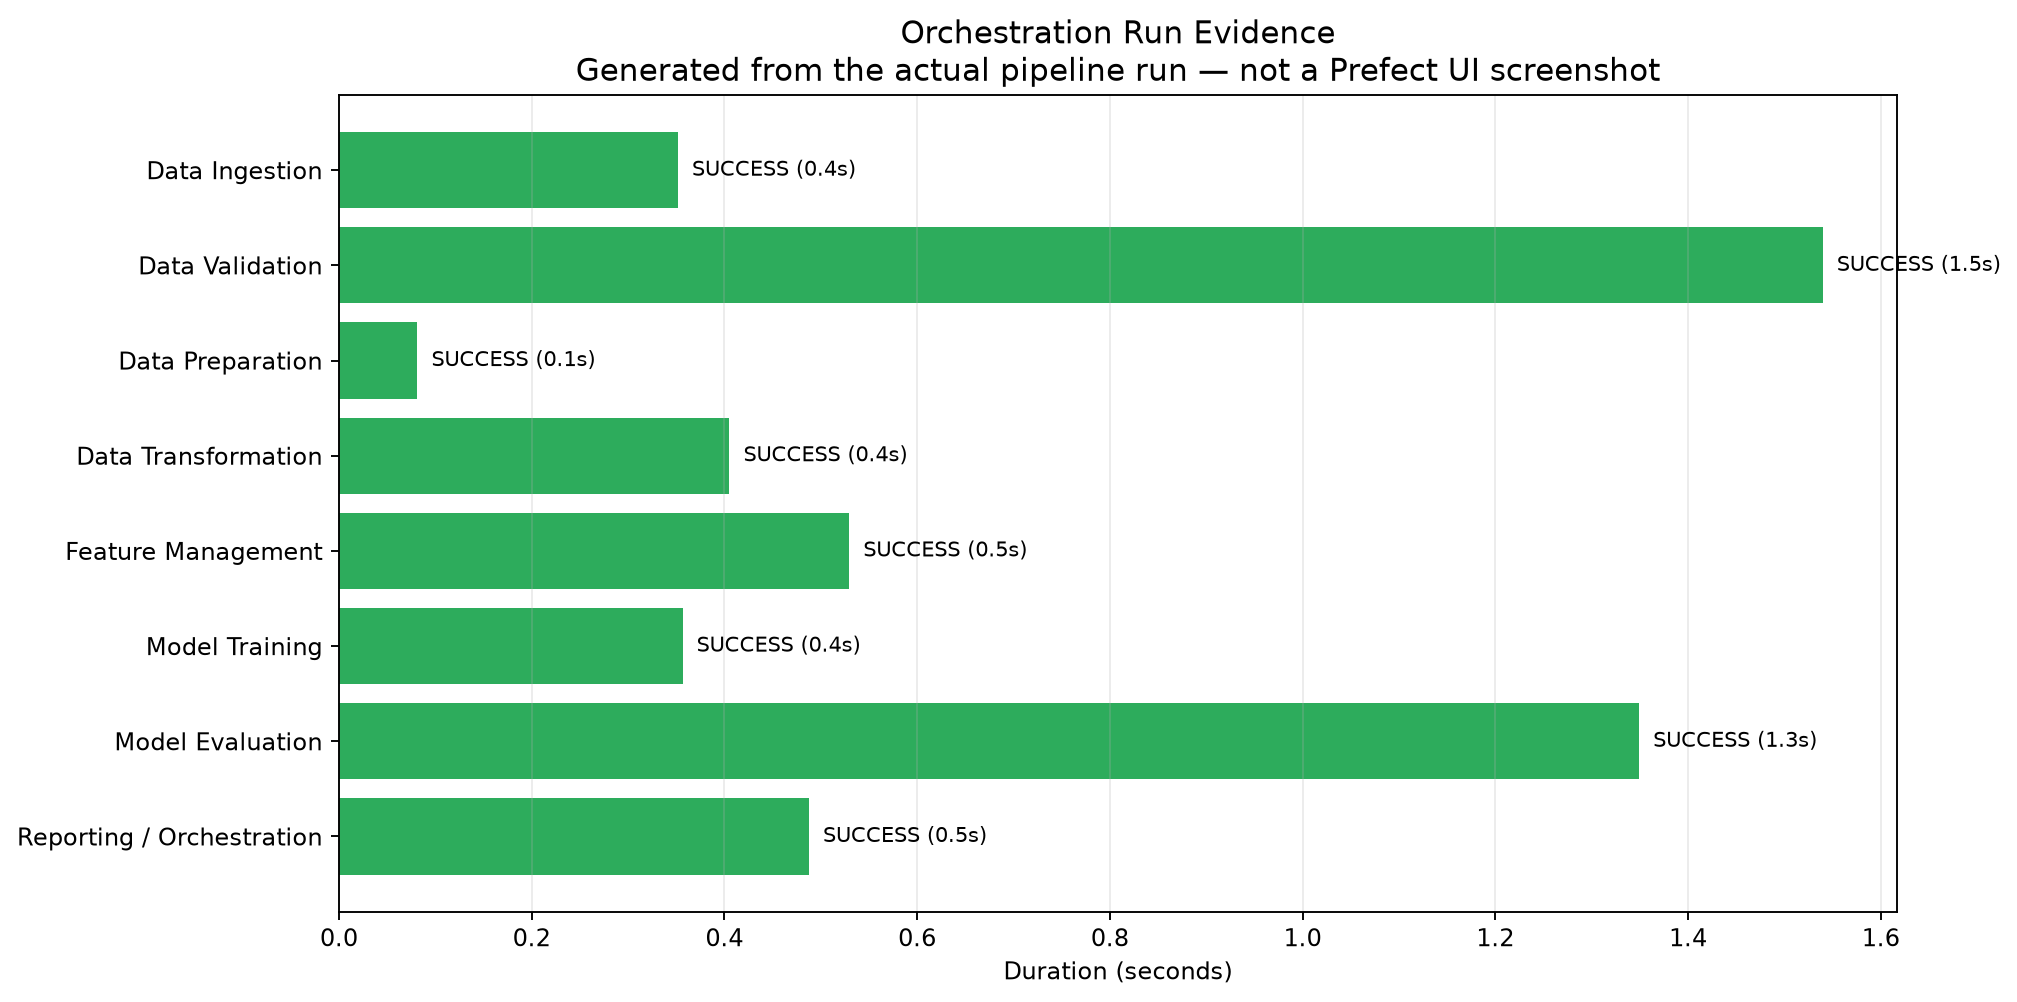
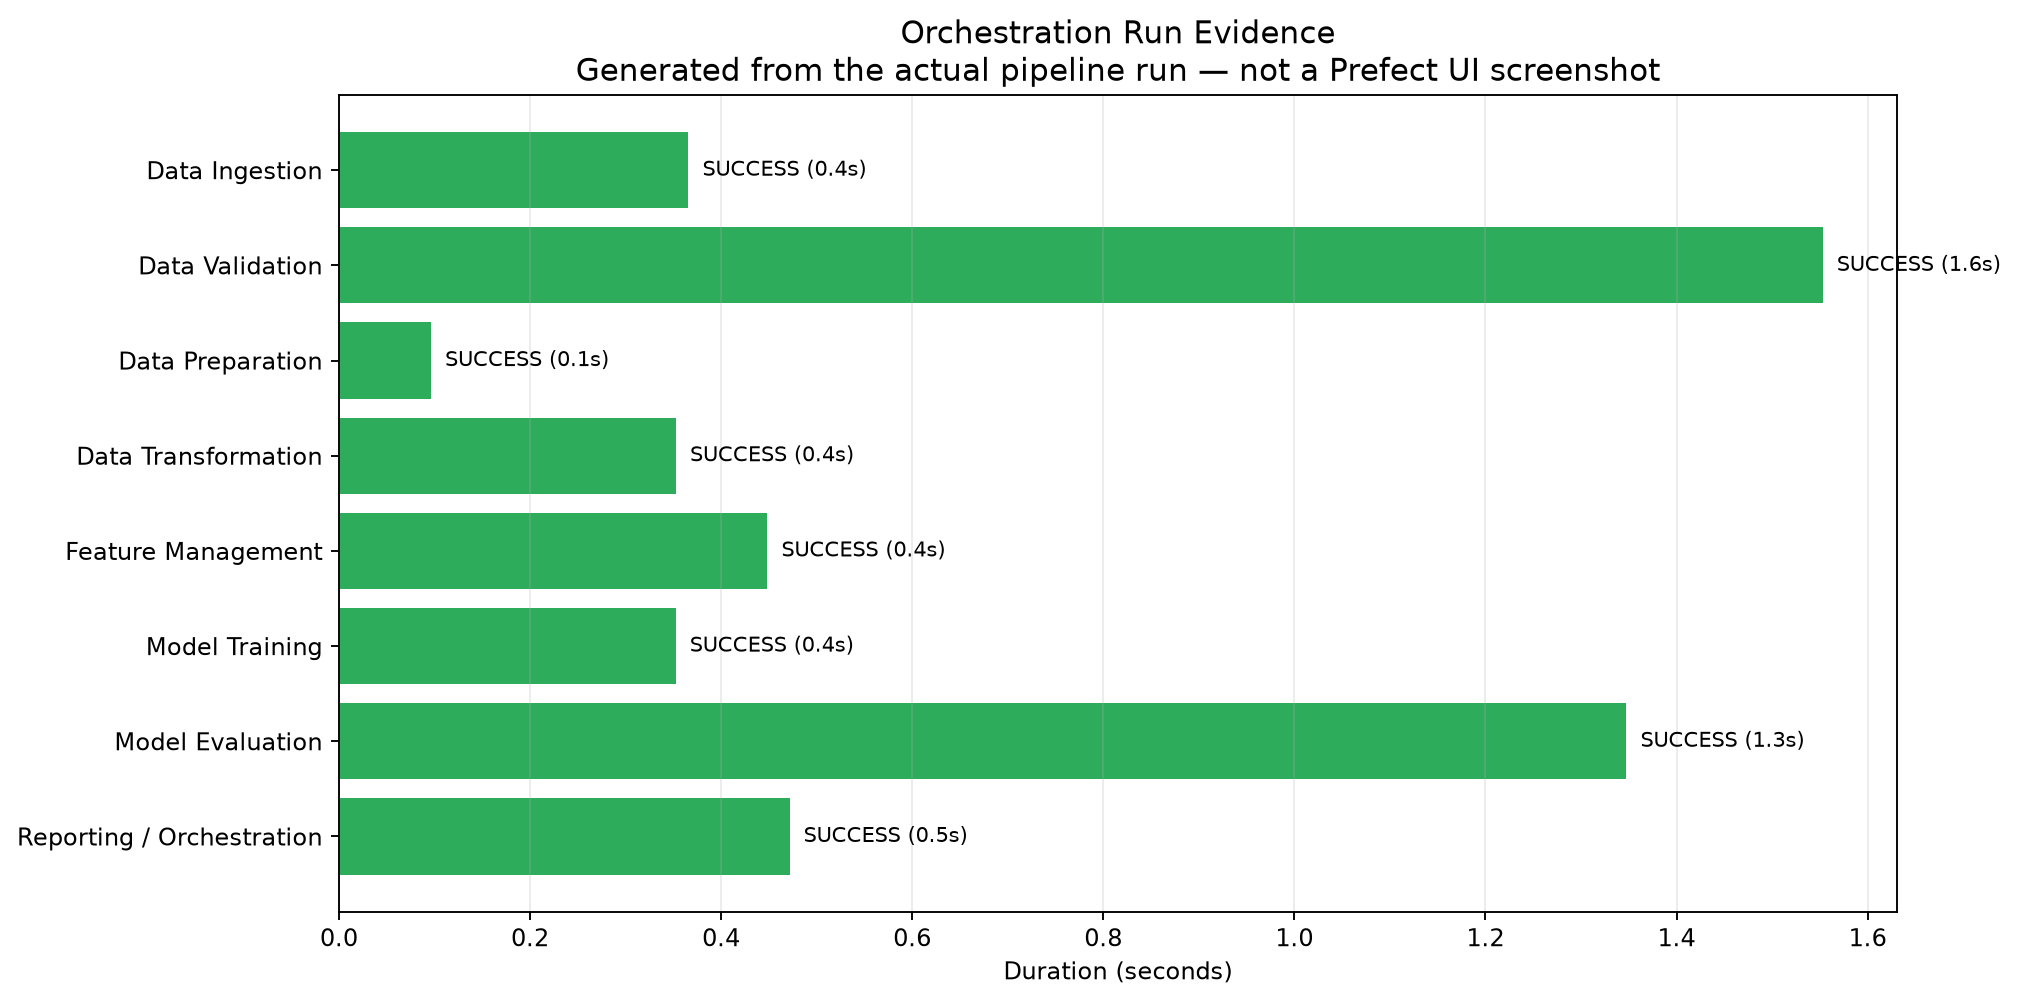
fix: align item age catalog dtype and refresh verified evidence

diff --git a/src/features/registry.py b/src/features/registry.py
@@ -114,9 +114,9 @@ FEATURE_REGISTRY: List[Dict[str, str]] = [
     {
         "feature": "item_age_years",
         "entity": "item",
-        "description": "Age of the item at the as-of date, when a release date is known.",
-        "formula": "as_of_year - release_year",
-        "dtype": "float",
+        "description": "Age of the item at the as-of date; missing release dates use the median age.",
+        "formula": "as_of_year - release_year, median fallback",
+        "dtype": "int",
         "source_table": "items",
         "used_by": "training, prediction",
     },

diff --git a/reports/feature_catalog.md b/reports/feature_catalog.md
@@ -15,7 +15,7 @@ Generated from `src/features/registry.py`. The same feature code path (`FeatureS
 | rating_count | item | Number of ratings received by the item in training. | count(rating) grouped by item_id | int | train interactions | training, prediction |
 | category | item | Primary genre of the item. | first genre in the item's genre list | string | items | training, prediction |
 | genre_* | item | One-hot genre indicators for the item. | 1 if the item belongs to the genre, else 0 | int (one-hot) | items | training, prediction, diversity |
-| item_age_years | item | Age of the item at the as-of date, when a release date is known. | as_of_year - release_year | float | items | training, prediction |
+| item_age_years | item | Age of the item at the as-of date; missing release dates use the median age. | as_of_year - release_year, median fallback | int | items | training, prediction |
 | rating | interaction | Observed explicit rating (missing at prediction time). | raw rating | float | train interactions | training |
 | timestamp | interaction | UTC timestamp of the interaction. | unix timestamp converted to UTC | datetime | train interactions | training, prediction |
 | hour | interaction | Hour of day of the interaction. | timestamp.hour | int | train interactions | training, prediction |
